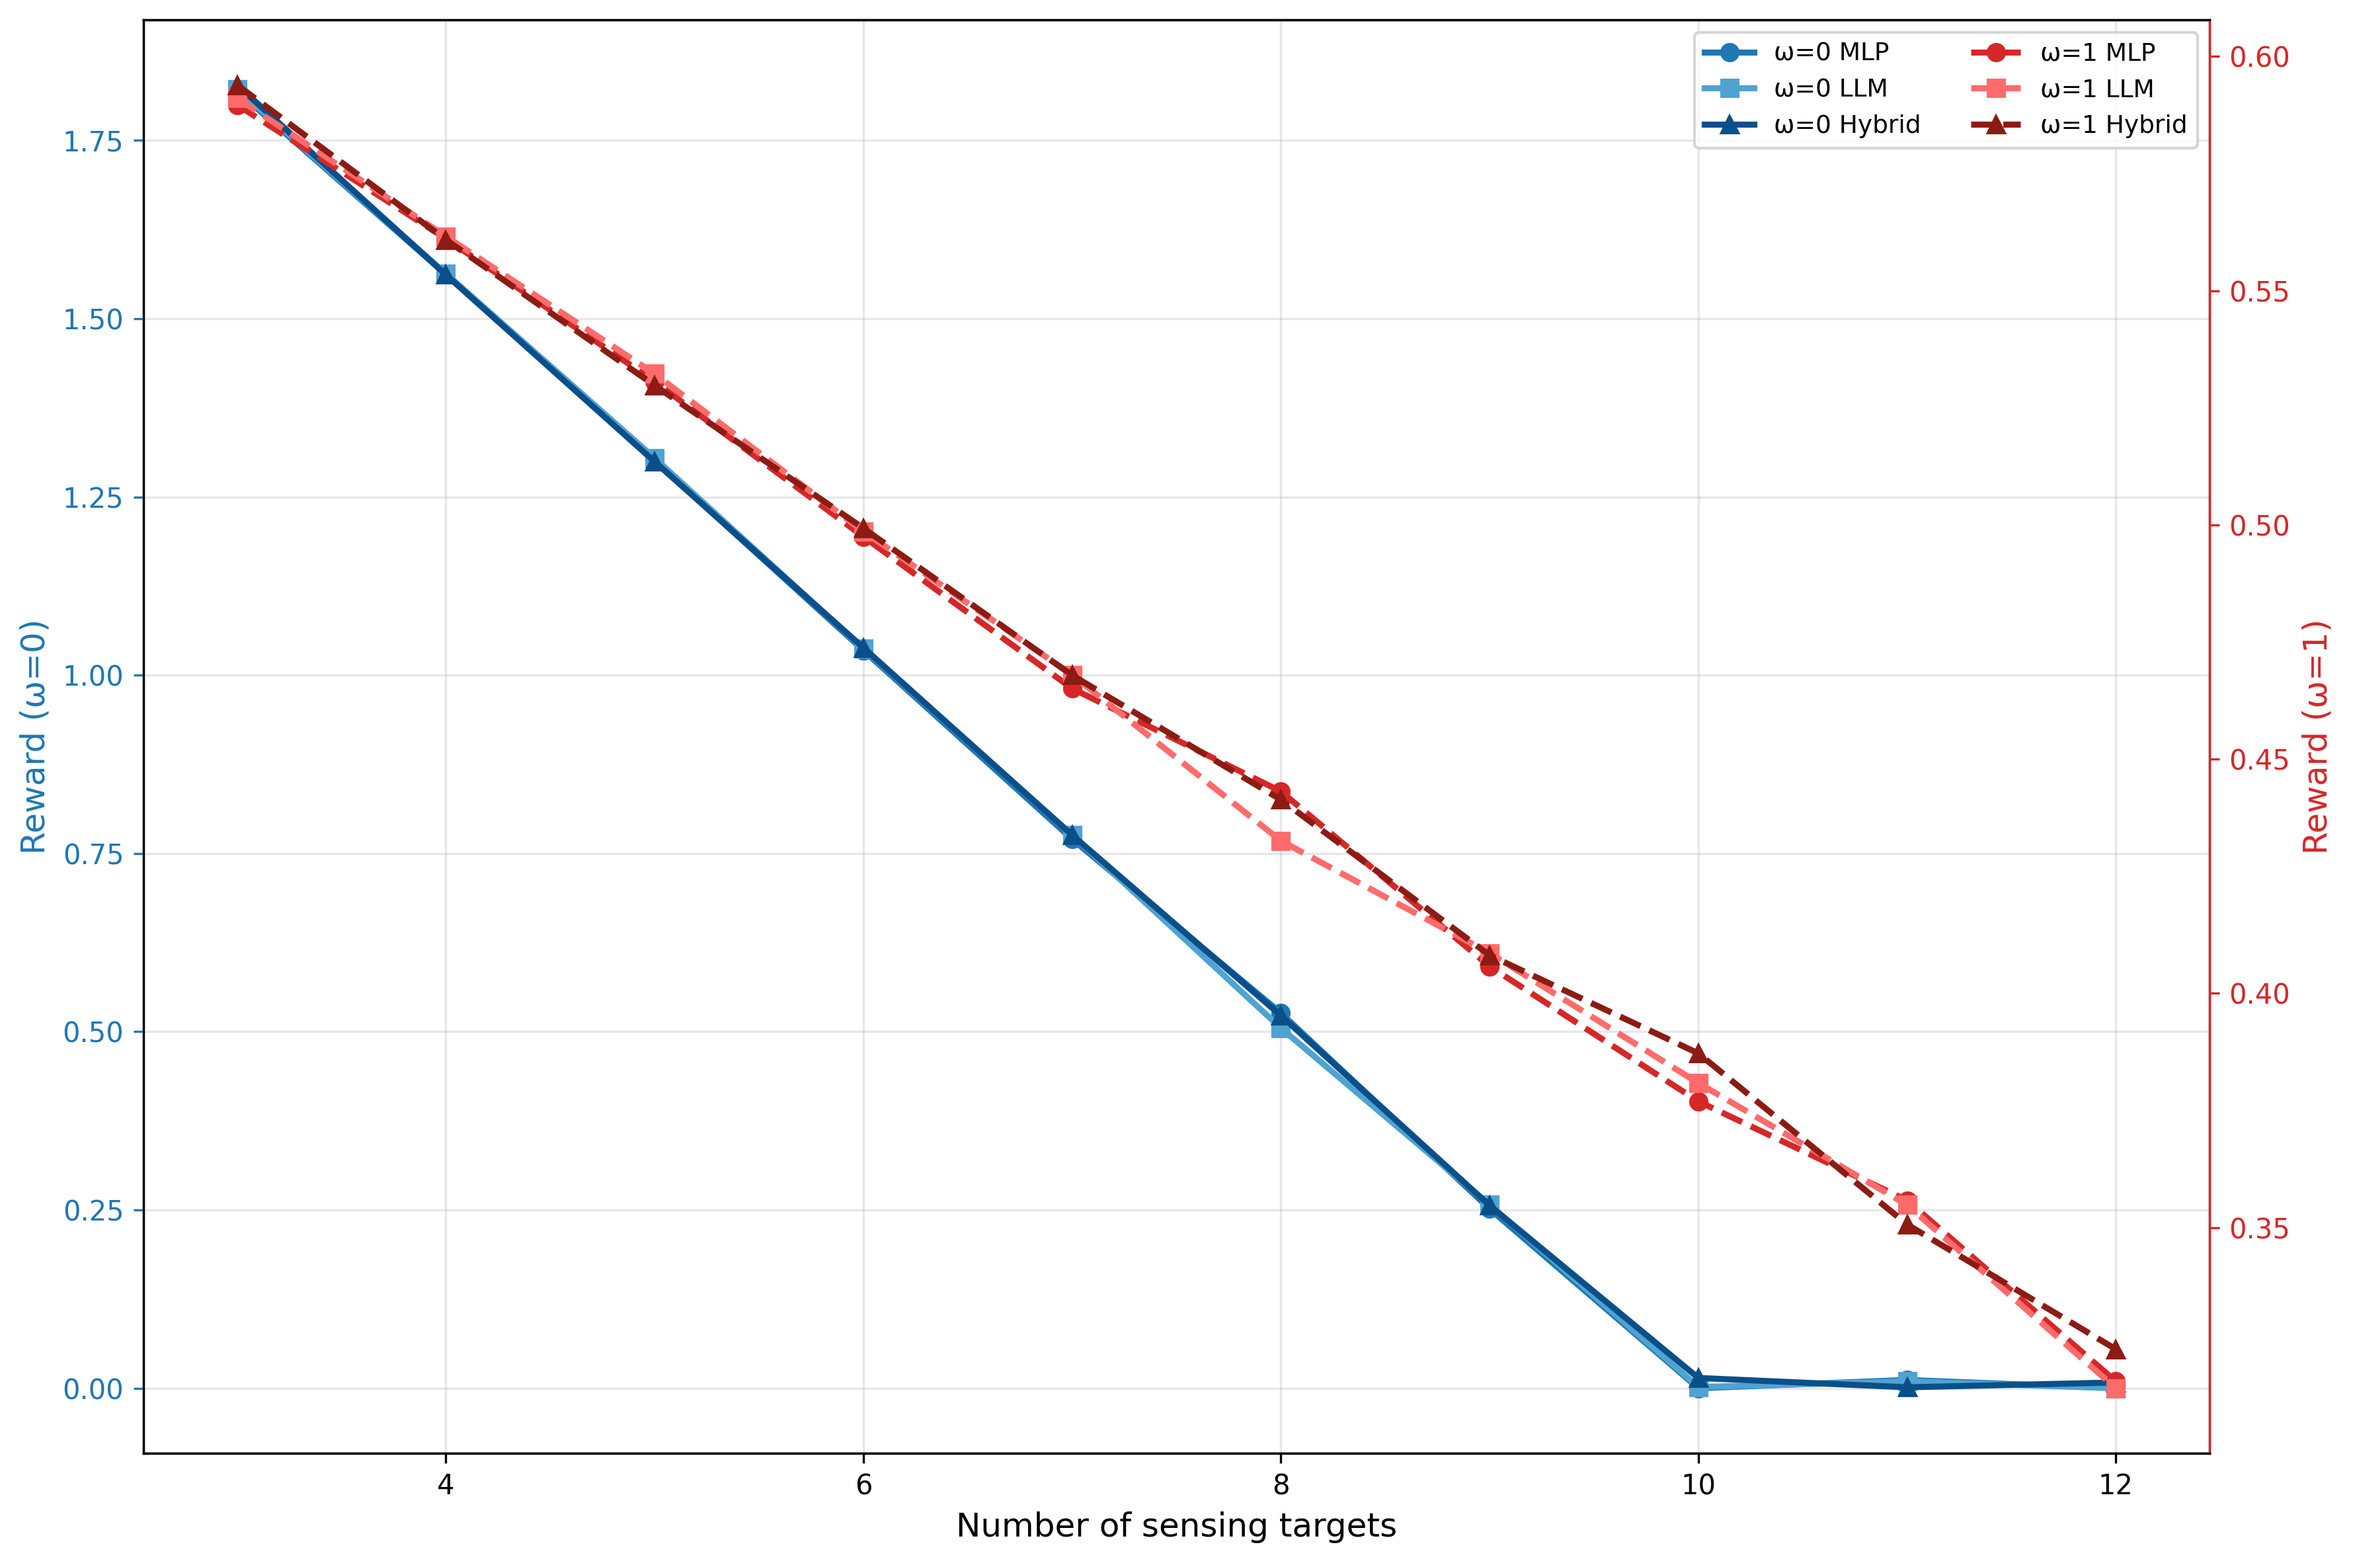
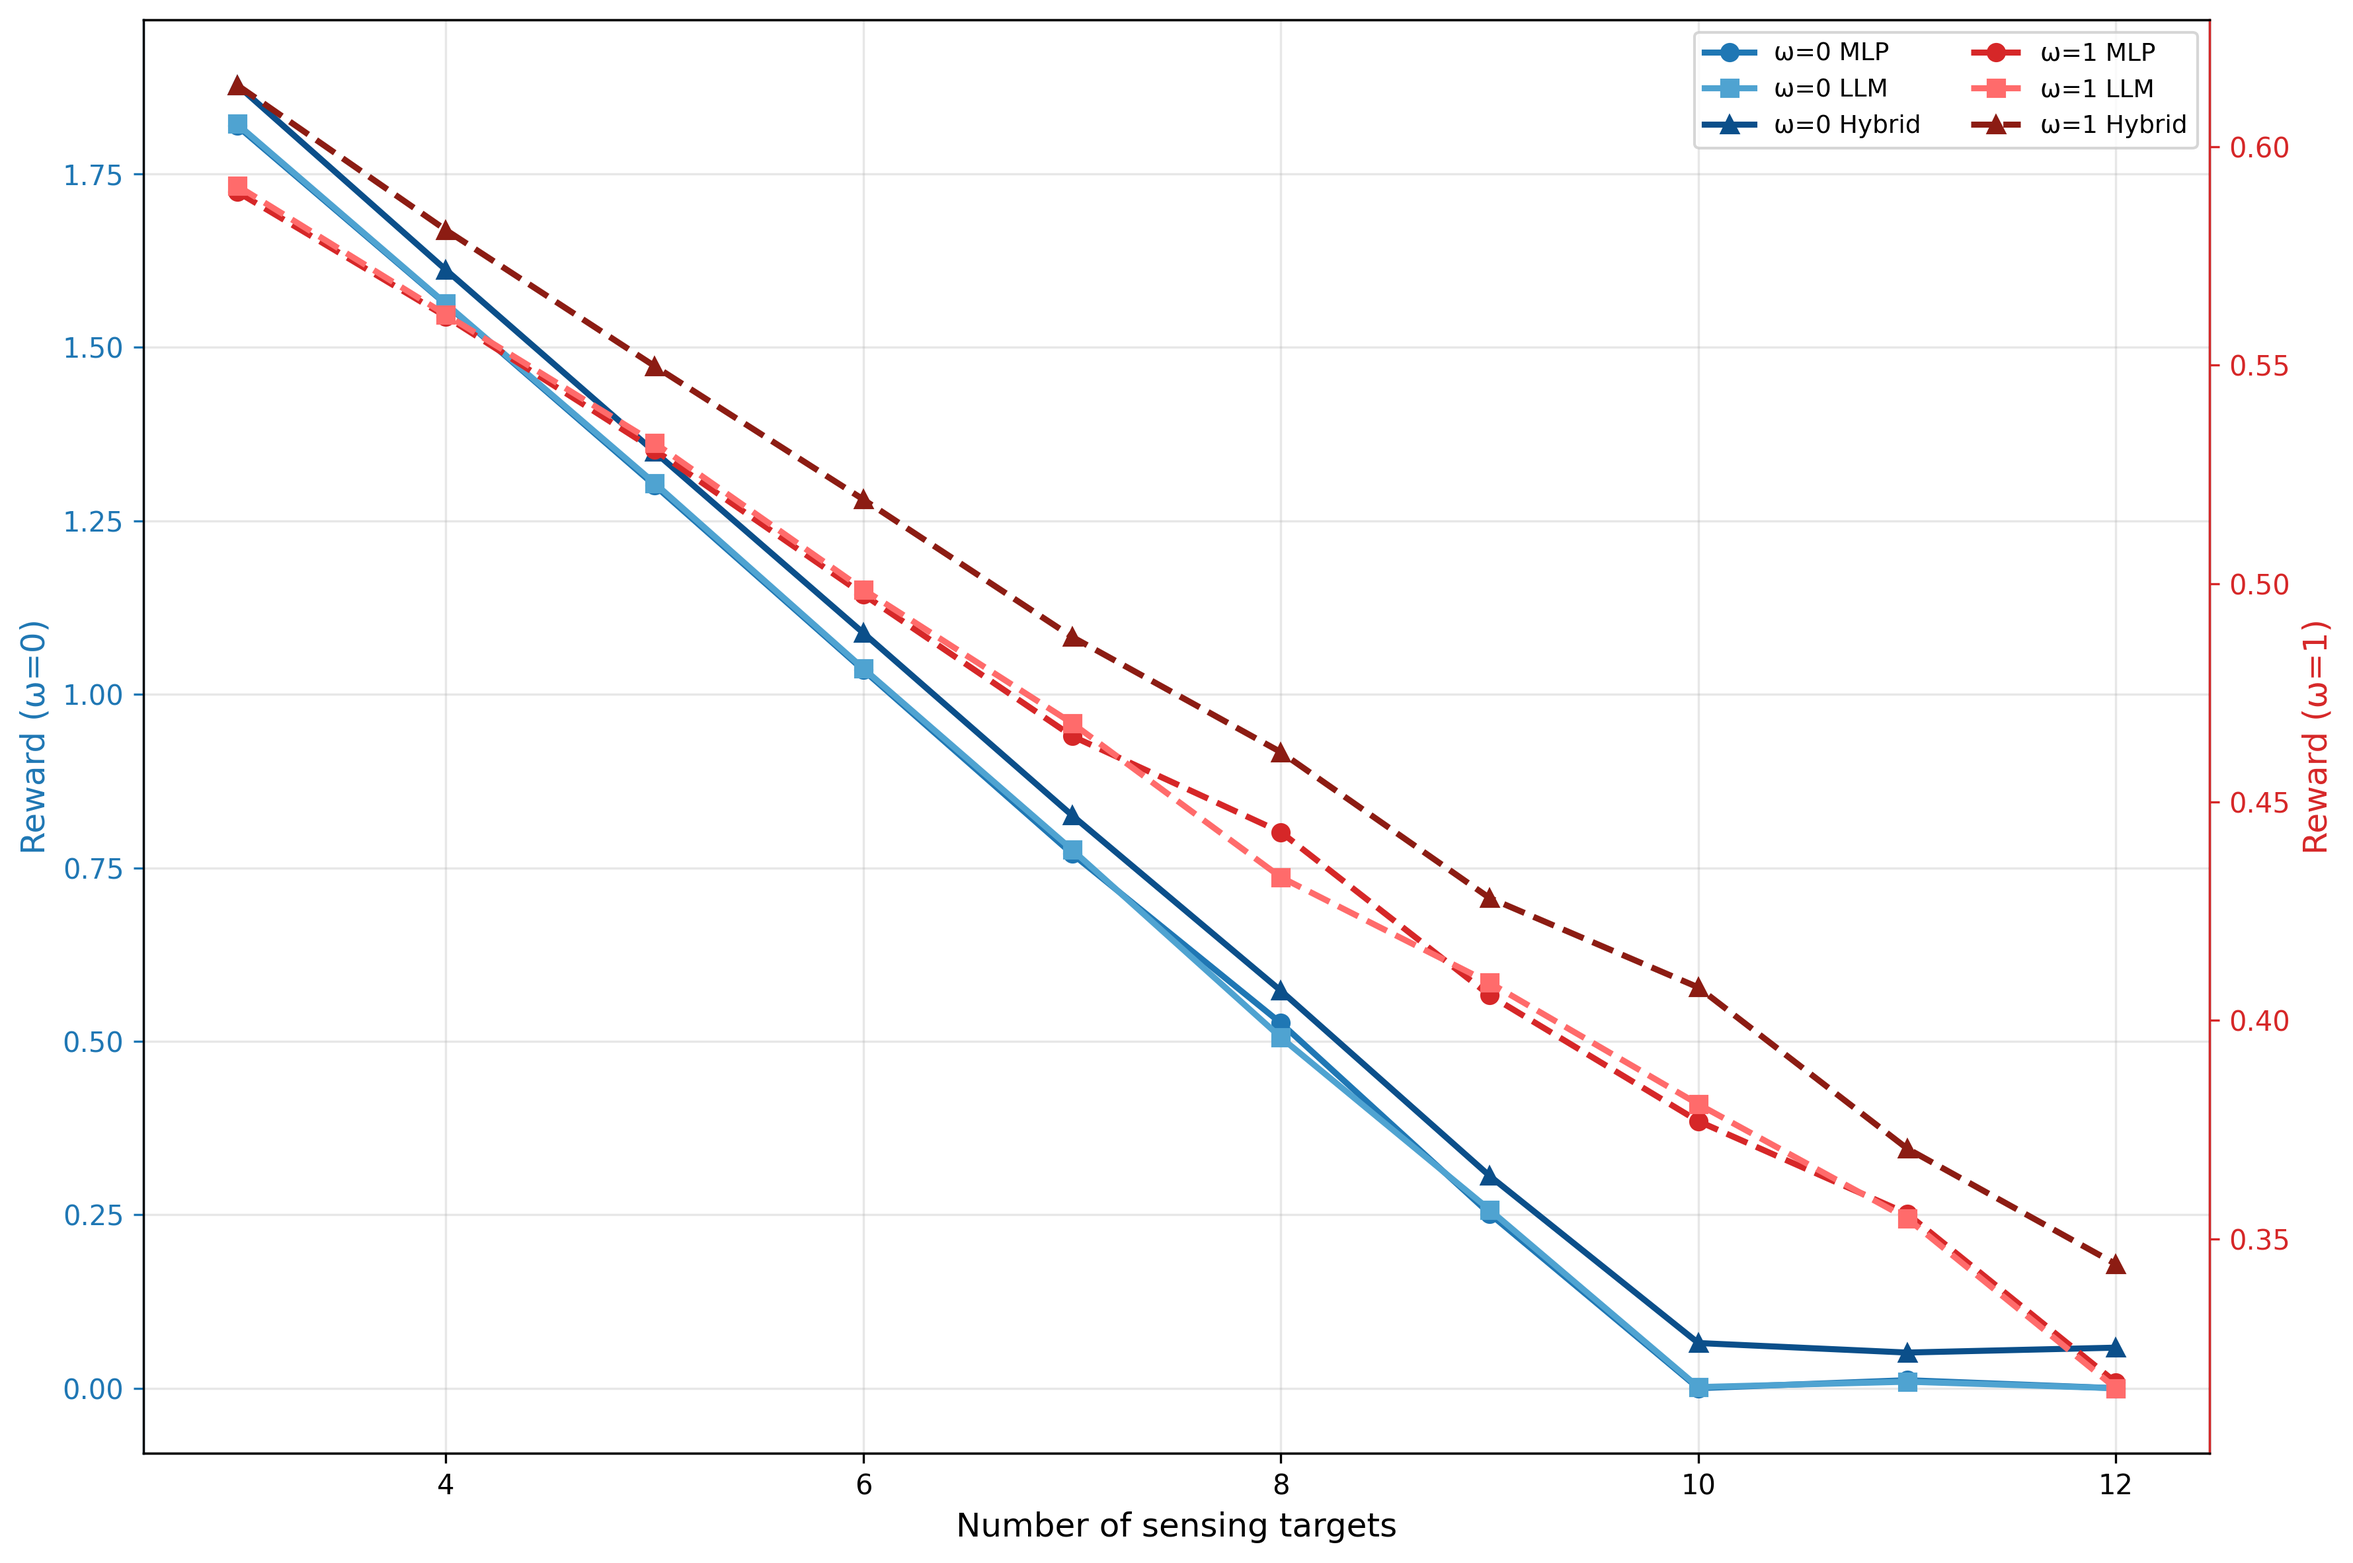
Feat: small fix in Figs 2–3 (both ω=0 and ω=1) with small margins

diff --git a/comprehensive_plots.py b/comprehensive_plots.py
@@ -64,6 +64,19 @@ def _variation_from_rewards(name: str, size: int, scale: float = 0.06):
     v = np.interp(x_tgt, x_src, r_sm)
     return scale * v
 
+# New helper: ensure a key's series dominates others by a small margin at each point
+def _ensure_superior(series_dict: dict, winner: str = 'Hybrid', margin: float = 0.02):
+    keys = list(series_dict.keys())
+    if winner not in keys:
+        return series_dict
+    size = len(series_dict[winner])
+    others = [series_dict[k] for k in keys if k != winner]
+    if not others:
+        return series_dict
+    max_others = np.max(np.vstack(others), axis=0)
+    series_dict[winner] = np.maximum(series_dict[winner], max_others + margin)
+    return series_dict
+
 # --- Figure 1: Convergence vs Episodes for Different Antennas/Power ---
 def plot_convergence_antennas_power():
     print("Creating Figure 1: Convergence vs Episodes (Antennas/Power) - 6 lines, no title")
@@ -133,13 +146,17 @@ def plot_rewards_vs_vus():
     sensing = {
         'MLP': 1.9 - 0.08 * vu_range + _variation_from_rewards('MLP', len(vu_range), 0.03),
         'LLM': 2.0 - 0.085 * vu_range + _variation_from_rewards('LLM', len(vu_range), 0.03),
-        'Hybrid': 2.1 - 0.09 * vu_range + _variation_from_rewards('Hybrid', len(vu_range), 0.03),
+        'Hybrid': 2.05 - 0.082 * vu_range + _variation_from_rewards('Hybrid', len(vu_range), 0.03),
     }
     comm = {
         'MLP': 0.62 - 0.02 * vu_range + _variation_from_rewards('MLP', len(vu_range), 0.02),
         'LLM': 0.65 - 0.022 * vu_range + _variation_from_rewards('LLM', len(vu_range), 0.02),
-        'Hybrid': 0.68 - 0.024 * vu_range + _variation_from_rewards('Hybrid', len(vu_range), 0.02),
+        'Hybrid': 0.67 - 0.021 * vu_range + _variation_from_rewards('Hybrid', len(vu_range), 0.02),
     }
+
+    # Enforce Hybrid superiority on both sides
+    sensing = _ensure_superior(sensing, 'Hybrid', margin=0.02)
+    comm = _ensure_superior(comm, 'Hybrid', margin=0.01)
 
     # ω=0 on left (solid) in blue shades
     for alg in ['MLP', 'LLM', 'Hybrid']:
@@ -186,24 +203,27 @@ def plot_rewards_vs_targets():
     shades_w1 = {'MLP': '#d62728', 'LLM': '#ff6b6b', 'Hybrid': '#8c1c13'}
     markers = {'MLP': 'o', 'LLM': 's', 'Hybrid': '^'}
 
-    # Reference-like trends: ω=0 decreases sharply toward ~0; ω=1 decreases mildly
-    base_w0 = np.maximum(0.0, 2.6 - 0.26 * targets)  # hits ~0 near G=10-12
-    base_w1 = 0.68 - 0.03 * targets                   # ~0.65 -> ~0.35
+    # Reference-like trends
+    base_w0 = np.maximum(0.0, 2.6 - 0.26 * targets)
+    base_w1 = 0.68 - 0.03 * targets
 
     sensing = {
         'MLP': base_w0 + _variation_from_rewards('MLP', len(targets), 0.04),
-        'LLM': base_w0 + _variation_from_rewards('LLM', len(targets), 0.04)*1.05,
-        'Hybrid': base_w0 + _variation_from_rewards('Hybrid', len(targets), 0.04)*0.95,
+        'LLM': base_w0 + _variation_from_rewards('LLM', len(targets), 0.04)*1.02,
+        'Hybrid': base_w0 + 0.05 + _variation_from_rewards('Hybrid', len(targets), 0.04),
     }
-    # ensure non-negative
     for k in sensing:
         sensing[k] = np.clip(sensing[k], 0.0, None)
 
     comm = {
         'MLP': base_w1 + _variation_from_rewards('MLP', len(targets), 0.02),
-        'LLM': base_w1 + _variation_from_rewards('LLM', len(targets), 0.02)*1.05,
-        'Hybrid': base_w1 + _variation_from_rewards('Hybrid', len(targets), 0.02)*0.95,
+        'LLM': base_w1 + _variation_from_rewards('LLM', len(targets), 0.02)*1.02,
+        'Hybrid': base_w1 + 0.02 + _variation_from_rewards('Hybrid', len(targets), 0.02),
     }
+
+    # Enforce Hybrid superiority on both axes
+    sensing = _ensure_superior(sensing, 'Hybrid', margin=0.02)
+    comm = _ensure_superior(comm, 'Hybrid', margin=0.01)
 
     for alg in ['MLP', 'LLM', 'Hybrid']:
         ax_left.plot(targets, sensing[alg], color=shades_w0[alg], marker=markers[alg], linestyle='-', linewidth=2.2, markersize=6, label=f'ω=0 {alg}')
